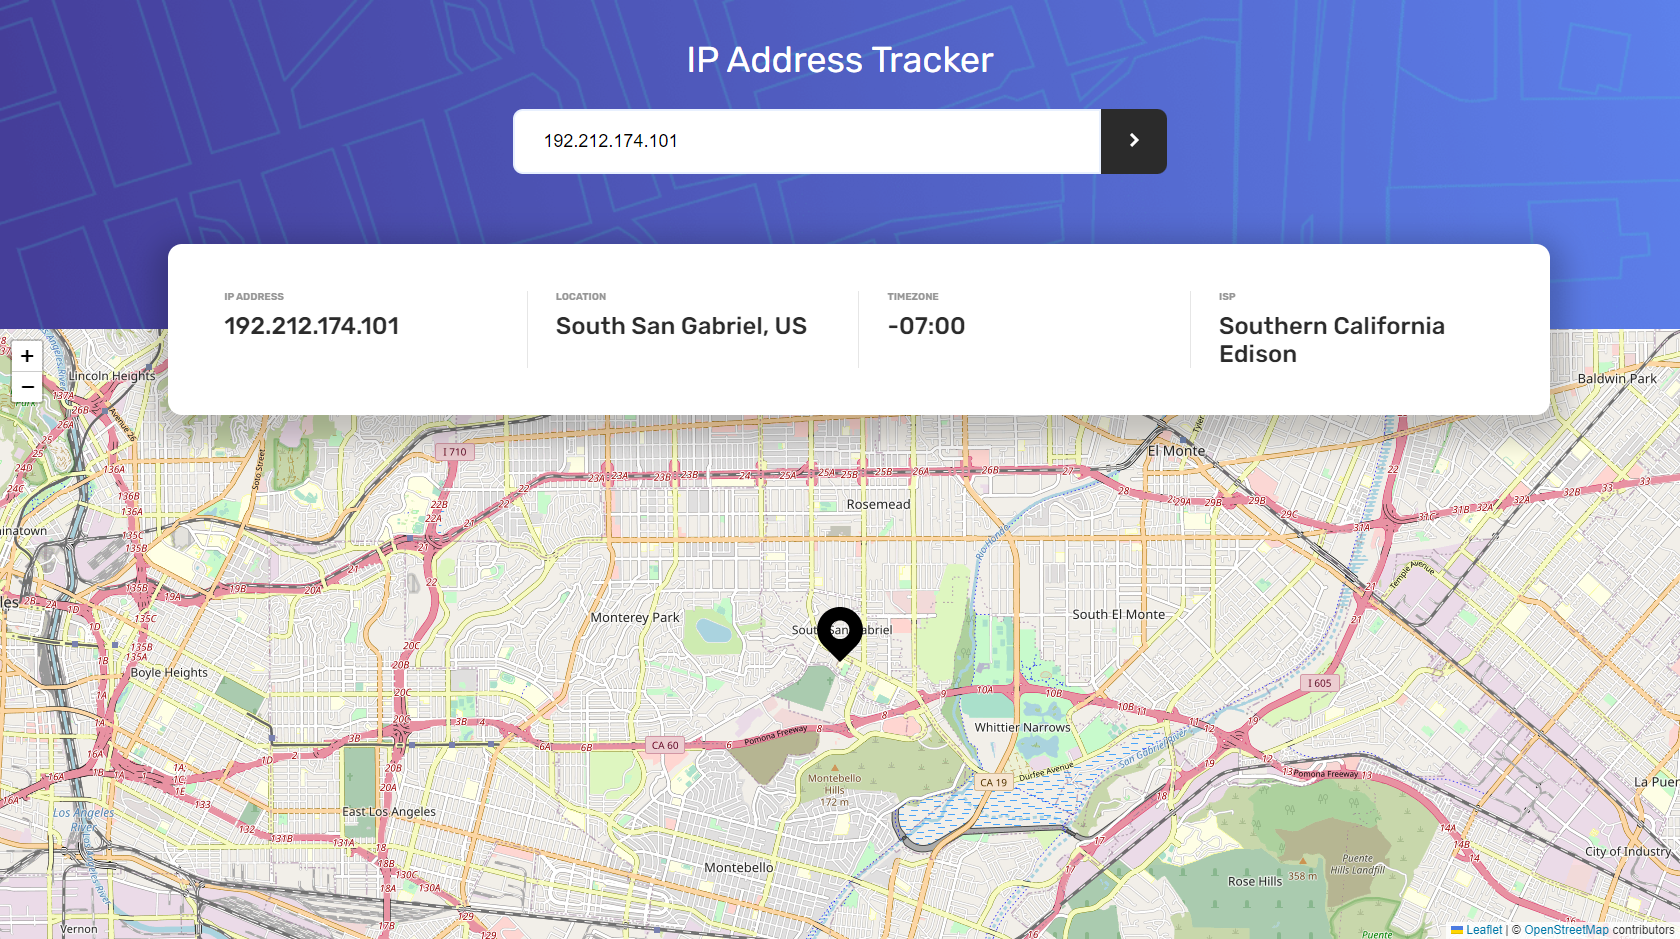
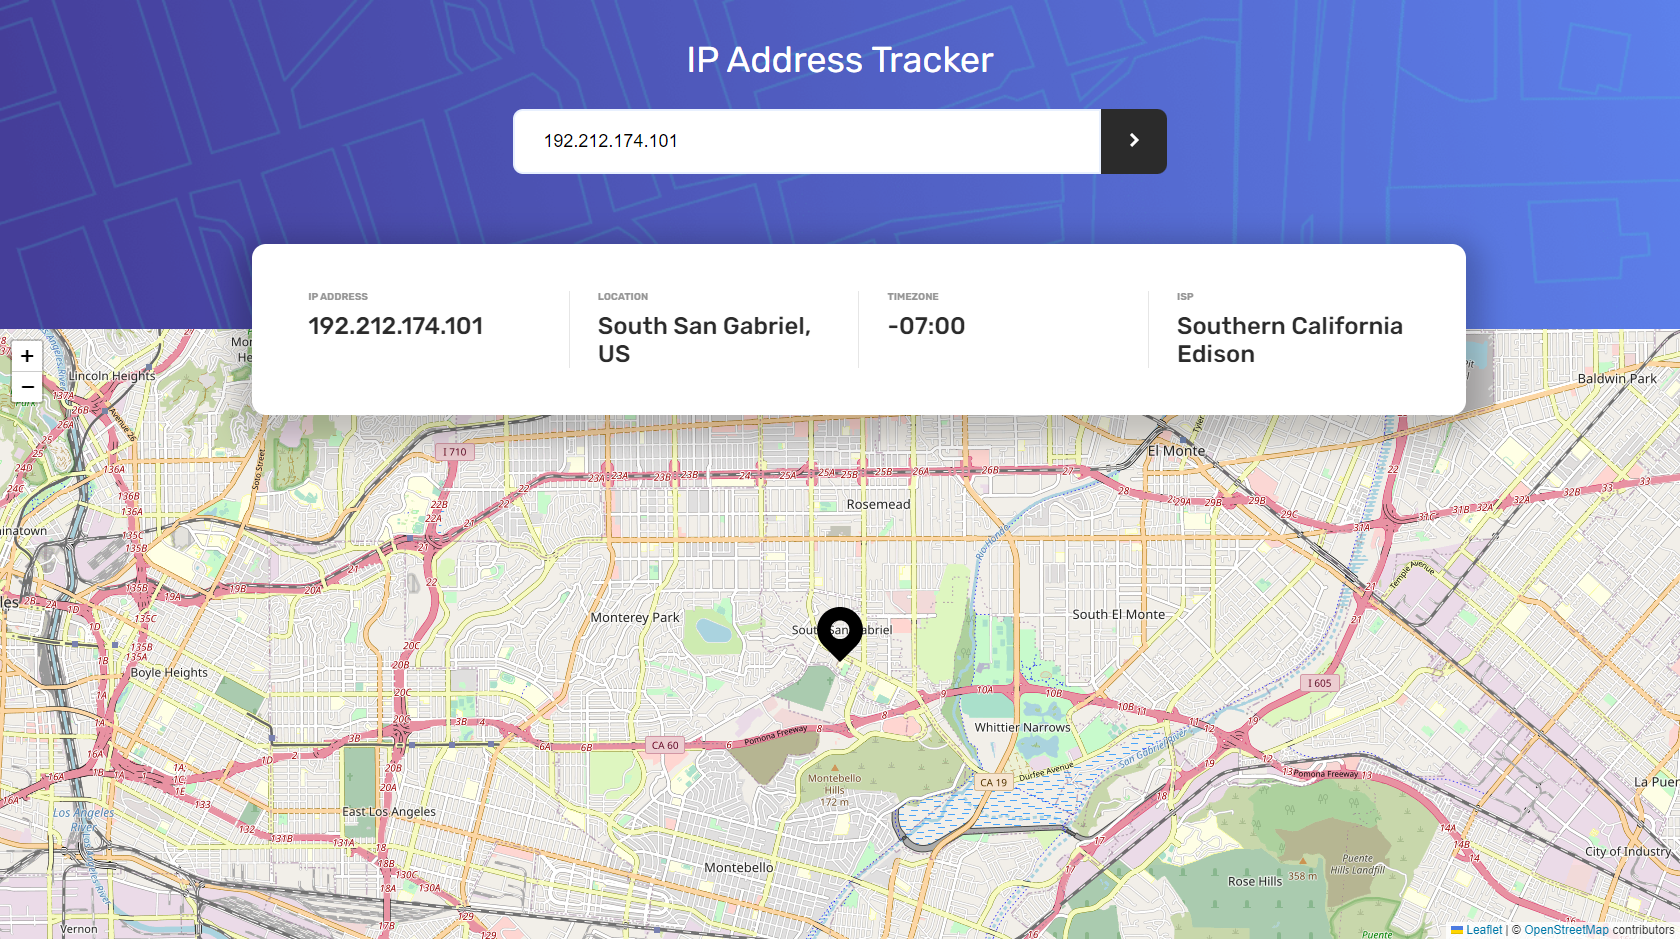
screen

Changed region(s): [[0.681, 0.2471, 0.9286, 0.4633], [0.0929, 0.2471, 0.2786, 0.4633], [0.3095, 0.3088, 0.4952, 0.4015]]

diff --git a/main.css b/main.css
@@ -96,10 +96,10 @@ button:hover {
 }
 
 .result {
-  width: 80%;
+  width: 70%;
   position: absolute;
   margin-top: 26vh;
-  left: 10%;
+  left: 15%;
   background-color: white;
   padding: 2vh;
   border: transparent;
